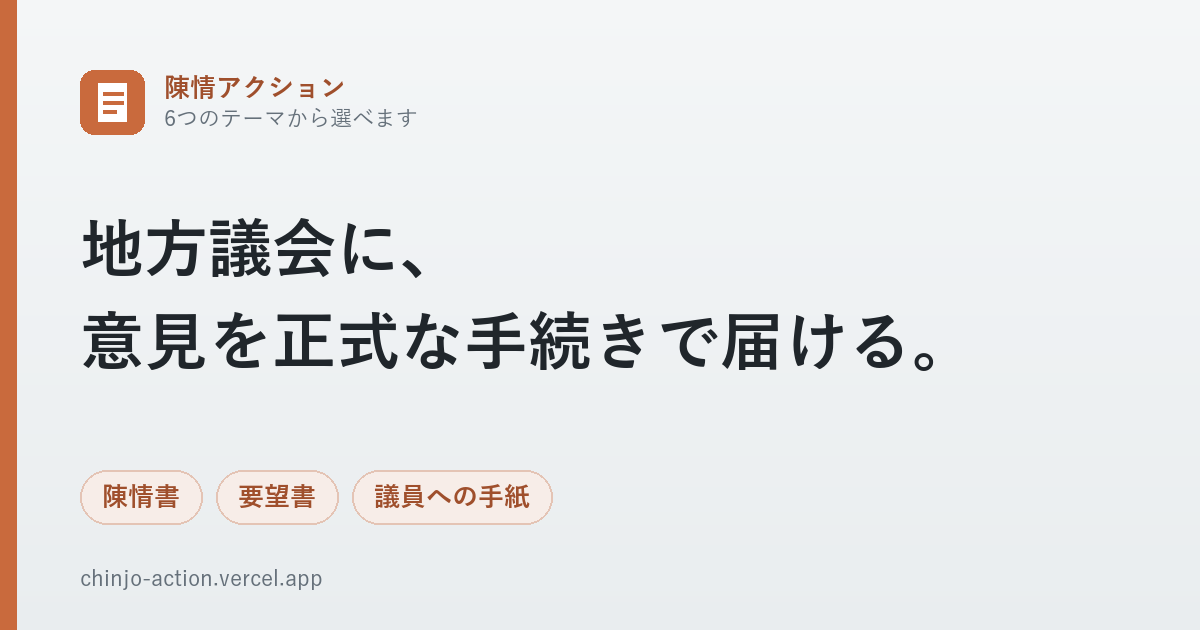
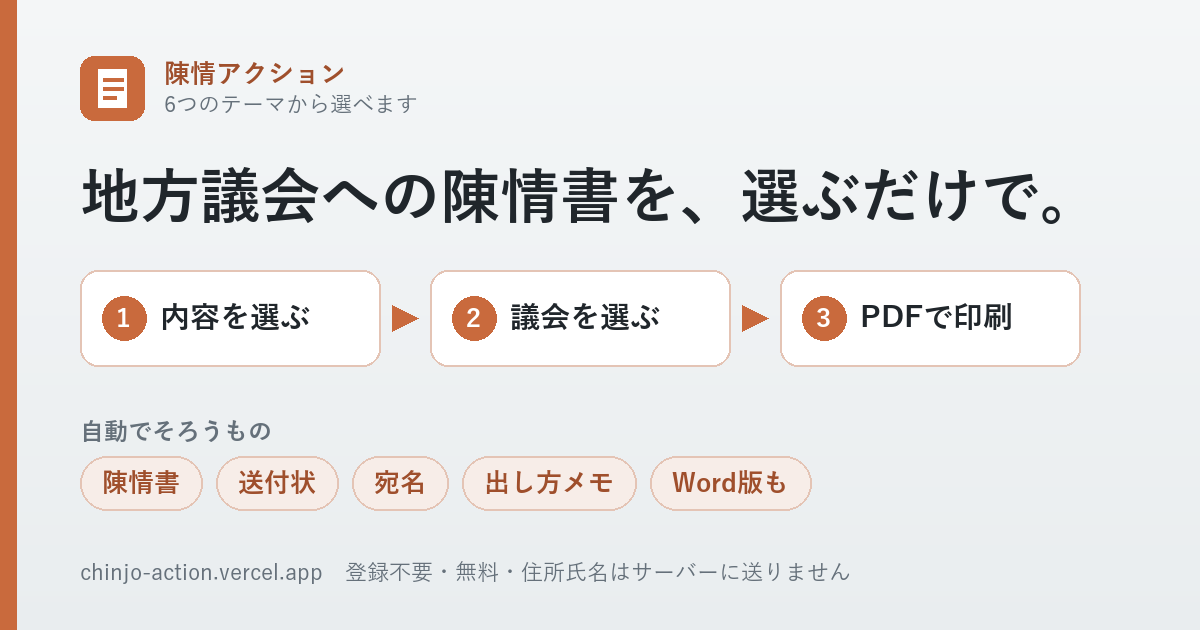
リンクカードの画像に、3つの手順と自動でそろう書類（陳情書・送付状・宛名・出し方メモ）を載せる。おまかせのページに専用のカードを作る

diff --git a/site/omakase.html b/site/omakase.html
@@ -13,7 +13,8 @@
 <meta property="og:description" content="3テーマ×3つの陳情と、郵送で審査される人口の多い議会3つを自動で選び、封筒に入れる分をまとめて印刷します。">
 <meta property="og:type" content="website">
 <meta property="og:url" content="https://chinjo-action.vercel.app/omakase">
-<meta property="og:image" content="https://chinjo-action.vercel.app/og-image.png">
+<meta property="og:image" content="https://chinjo-action.vercel.app/omakase-og.png">
+<meta property="og:image:alt" content="おまかせで3つの議会に郵送する ― くじを引く→PDFを保存→署名して郵送。陳情書・送付状・宛名ラベル・意見書の案・出し方メモを1つのPDFに。">
 <meta property="og:locale" content="ja_JP">
 <link rel="icon" href="/favicon.svg" type="image/svg+xml">
 <link rel="stylesheet" href="/css/style.css">

diff --git a/site/index.html b/site/index.html
@@ -16,7 +16,7 @@
 <meta property="og:image" content="https://chinjo-action.vercel.app/og-image.png">
 <meta property="og:image:width" content="1200">
 <meta property="og:image:height" content="630">
-<meta property="og:image:alt" content="権利を守る陳情アクション ― 地方議会に、意見を正式な手続きで届ける。">
+<meta property="og:image:alt" content="陳情アクション ― 地方議会への陳情書を、選ぶだけで。内容を選ぶ→議会を選ぶ→PDFで印刷。陳情書・送付状・宛名・出し方メモが自動でそろいます。">
 <meta property="og:locale" content="ja_JP">
 <meta name="twitter:card" content="summary_large_image">
 <link rel="icon" href="/favicon.svg" type="image/svg+xml">

diff --git a/scripts/og-images.py b/scripts/og-images.py
@@ -4,7 +4,7 @@
 import os
 from PIL import Image, ImageDraw, ImageFont
 
-ROOT = os.path.join(os.path.dirname(__file__), '..')
+ROOT = os.path.join(os.path.dirname(__file__), '..', 'site')
 FONTS = 'C:/Windows/Fonts'
 W, H = 1200, 630
 MAIN, MAIN_DARK, INK, MUTED = '#c96a3d', '#9f4f2c', '#20262b', '#65707a'
@@ -12,9 +12,6 @@ BG_FROM, BG_TO, SOFT, LINE = (244, 246, 247), (233, 237, 239), '#f7ede8', '#e4c4
 
 CARDS = [
     # (書き出す先, 上の小さな見出し, 大見出し（2行）, 下に並べる札)
-    ('og-image.png', '6つのテーマから選べます',
-     ['地方議会に、', '意見を正式な手続きで届ける。'],
-     ['陳情書', '要望書', '議員への手紙']),
     ('themes/kodomo/og-image.png', '子どもの権利を守る陳情',
      ['子どもが両方の親と関わり続け', 'られる制度を、地方議会に。'],
      ['実子誘拐の解決', '共同親権の原則化']),
@@ -76,7 +73,71 @@ def draw_card(out, crumb, title, tags):
     img.save(os.path.join(ROOT, out), optimize=True)
 
 
+# 手順とできあがる書類を見せるカード（トップ・おまかせ）
+STEP_CARDS = [
+    # (書き出す先, 上の小さな見出し, 大見出し, 手順, 自動でそろうもの)
+    ('og-image.png', '6つのテーマから選べます',
+     '地方議会への陳情書を、選ぶだけで。',
+     ['内容を選ぶ', '議会を選ぶ', 'PDFで印刷'],
+     ['陳情書', '送付状', '宛名', '出し方メモ', 'Word版も']),
+    ('omakase-og.png', 'おまかせで3つの議会に郵送する',
+     '押すのは2回。3議会ぶんを1つのPDFに。',
+     ['くじを引く', 'PDFを保存', '署名して郵送'],
+     ['陳情書', '送付状', '宛名ラベル', '意見書の案', '出し方メモ']),
+]
+
+
+def draw_steps(out, crumb, title, steps, outputs):
+    img = Image.new('RGB', (W, H))
+    d = ImageDraw.Draw(img)
+    for y in range(H):
+        t = y / H
+        d.line([(0, y), (W, y)], fill=tuple(round(a + (b - a) * t) for a, b in zip(BG_FROM, BG_TO)))
+    d.rectangle([0, 0, 16, H], fill=MAIN)
+    x0, y0 = 80, 56
+    d.rounded_rectangle([x0, y0, x0 + 64, y0 + 64], radius=14, fill=MAIN)
+    d.rectangle([x0 + 18, y0 + 13, x0 + 46, y0 + 51], fill='#fff')
+    for i, w in enumerate([20, 20, 13]):
+        d.rectangle([x0 + 23, y0 + 22 + i * 9, x0 + 23 + w, y0 + 25 + i * 9], fill=MAIN)
+    d.text((x0 + 84, y0 + 4), '陳情アクション', font=font('YuGothB.ttc', 26), fill=MAIN_DARK)
+    d.text((x0 + 84, y0 + 36), crumb, font=font('YuGothM.ttc', 22), fill=MUTED)
+
+    size = 60
+    while d.textlength(title, font=font('YuGothB.ttc', size)) > W - 160:
+        size -= 2
+    d.text((80, 165), title, font=font('YuGothB.ttc', size), fill=INK)
+
+    # 手順（番号つきの箱を矢印でつなぐ）
+    fs, fn = font('YuGothB.ttc', 30), font('YuGothB.ttc', 26)
+    bw, gap, top = 300, 50, 270
+    for i, s in enumerate(steps):
+        x = 80 + i * (bw + gap)
+        d.rounded_rectangle([x, top, x + bw, top + 96], radius=18, fill='#fff', outline=LINE, width=2)
+        cx, cy = x + 44, top + 48
+        d.ellipse([cx - 22, cy - 22, cx + 22, cy + 22], fill=MAIN)
+        d.text((cx, cy), str(i + 1), font=fn, fill='#fff', anchor='mm')
+        d.text((x + 80, cy), s, font=fs, fill=INK, anchor='lm')
+        if i < len(steps) - 1:
+            ax = x + bw + 12
+            d.polygon([(ax, cy - 13), (ax + 26, cy), (ax, cy + 13)], fill=MAIN)
+
+    # 自動でそろうもの
+    d.text((80, 418), '自動でそろうもの', font=font('YuGothB.ttc', 24), fill=MUTED)
+    ft, x = font('YuGothB.ttc', 26), 80
+    for s in outputs:
+        w = d.textlength(s, font=ft) + 44
+        d.rounded_rectangle([x, 456, x + w, 510], radius=27, fill=SOFT, outline=LINE, width=2)
+        d.text((x + 22, 483), s, font=ft, fill=MAIN_DARK, anchor='lm')
+        x += w + 14
+    d.text((80, 560), 'chinjo-action.vercel.app　登録不要・無料・住所氏名はサーバーに送りません',
+           font=font('YuGothM.ttc', 22), fill=MUTED)
+    img.save(os.path.join(ROOT, out), optimize=True)
+
+
 if __name__ == '__main__':
+    for card in STEP_CARDS:
+        draw_steps(*card)
+        print(card[0])
     for card in CARDS:
         draw_card(*card)
         print(card[0])
